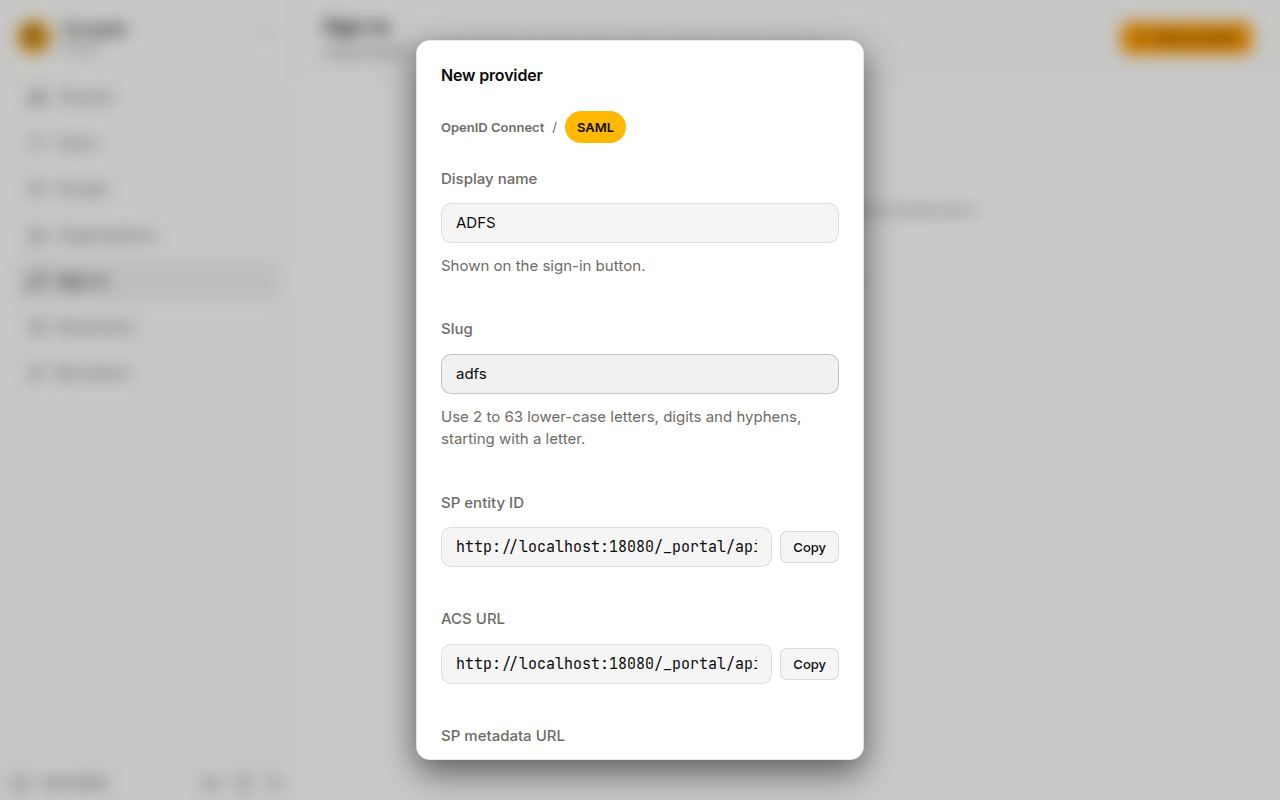
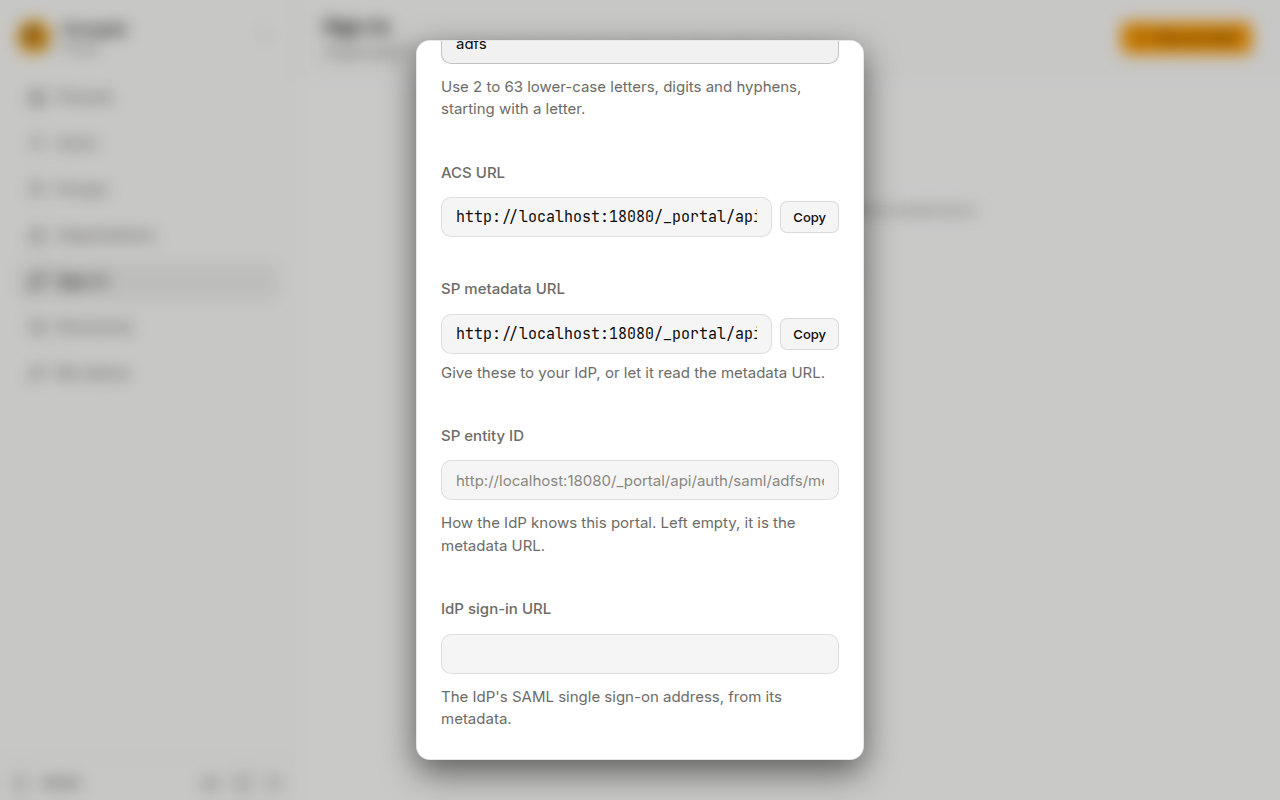
docs(portal): SP entity ID, unsaved mappings, skipped syncs, role sources and SCIM re-creation

diff --git a/src/content/docs/portal/console/sign-in-providers.md b/src/content/docs/portal/console/sign-in-providers.md
@@ -26,22 +26,23 @@ The service asks you for the portal's **callback URL**. The console shows it whi
 7. **On**: untick it to keep the provider ready but hidden from the sign-in page.
 8. Press **Add provider**.
 
-People are matched by email: someone whose organisation email is already a user of the portal signs in as that user.
+People are matched by email: someone whose organisation email is already a user of the portal signs in as that user. This needs the provider to say the email is verified; when it does not, the person can still sign in, but only to an account the provider made or linked before, and no account is made for them.
 
 ## Add a SAML provider
 
 1. Press **New provider** and choose **SAML**.
 2. **Display name** and **Slug**, as for OpenID Connect.
-3. The console now shows the portal's **SP entity ID**, **ACS URL** and **SP metadata URL**. Register the portal with your IdP using these, or give it the metadata URL.
-4. You can save it now, with **On** unticked, and come back with the IdP's details.
-5. **IdP sign-in URL** and **IdP signing certificate**: from the IdP's metadata. During a certificate change, paste both certificates.
-6. **IdP entity ID**: the IdP's issuer, so only it is accepted.
-7. **Email attribute**, **Name attribute** and **Groups attribute**: the names of the attributes your IdP sends. Leave the email empty to use the email the IdP names, or the NameID.
-8. **ID attribute**: leave it empty to use the NameID. If your IdP sends a temporary (transient) NameID, set an attribute that stays the same.
-9. **Trust the IdP's email**: only then can a sign-in link an existing user by email.
-10. Tick **On** and press **Save**.
+3. The console now shows the portal's **ACS URL** and **SP metadata URL**. Register the portal with your IdP using these, or give it the metadata URL.
+4. **SP entity ID**: how the IdP knows the portal. Leave it empty to use the metadata URL; enter another only if your IdP expects one.
+5. You can save it now, with **On** unticked, and come back with the IdP's details.
+6. **IdP sign-in URL** and **IdP signing certificate**: from the IdP's metadata. During a certificate change, paste both certificates.
+7. **IdP entity ID**: the IdP's issuer, so only it is accepted.
+8. **Email attribute**, **Name attribute** and **Groups attribute**: the names of the attributes your IdP sends. Leave the email empty to use the email the IdP names, or the NameID.
+9. **ID attribute**: leave it empty to use the NameID. If your IdP sends a temporary (transient) NameID, set an attribute that stays the same.
+10. **Trust the IdP's email**: only then can a sign-in link an existing user by email.
+11. Tick **On** and press **Save**.
 
-![A new SAML provider: the portal's SP entity ID, ACS URL and metadata URL to give to the IdP.](../../../../assets/screenshots/portal-provider-saml.png)
+![A new SAML provider: the portal's ACS URL and metadata URL to give to the IdP, and its SP entity ID, empty to use the metadata URL.](../../../../assets/screenshots/portal-provider-saml.png)
 
 Sign-in always starts on the portal: a link on the IdP's own portal page that sends people straight here does not sign them in.
 

diff --git a/src/content/docs/portal/console/group-mappings.md b/src/content/docs/portal/console/group-mappings.md
@@ -10,7 +10,9 @@ Mappings are kept per directory and per sign-in provider, at the bottom of its w
 1. Press **Add mapping**.
 2. Type the outside group: for a directory, the group's DN; for a provider, the group's name or ID as the provider sends it.
 3. Choose the portal group or role it gives.
-4. Press **Save mappings**.
+4. Press **Save mappings**. A row with only one of its two halves filled in is refused: complete it or remove it.
+
+While a directory's mappings are unsaved, **Test connection** and **Sync now** wait. Closing the window with unsaved mappings asks before discarding them.
 
 Upper and lower case do not matter, nor do spaces after the commas of a DN.
 
@@ -23,6 +25,6 @@ Each time, the person gets exactly the groups and roles the mappings give them, 
 
 ## Mapped and hand-given access
 
-Groups and roles an administrator gives by hand are never touched by mappings. On a user's page, the **Roles** card shows the roles given by hand as tick boxes, and lists below them the ones a directory or provider gives. A group's **Members** card shows members a directory gave as **From** the directory; only the directory can take them away.
+Groups and roles an administrator gives by hand are never touched by mappings. On a user's page, the **Roles** card shows the roles given by hand as tick boxes, and lists below them each role a directory or provider gives, with that source's name. A group's **Members** card shows members a directory gave as **From** the directory; only the directory can take them away. Someone given both by hand and by a directory is listed once, with **From** the directory.
 
 The portal always keeps one active administrator: a mapping never takes the role from the last one.

diff --git a/src/content/docs/portal/console/directories.md b/src/content/docs/portal/console/directories.md
@@ -32,7 +32,7 @@ Open the directory and press **Test connection**. The console says how many peop
 
 ![A directory open in the console: Test connection says it finds 3 users, and its group mappings are below.](../../../../assets/screenshots/portal-directory-test-mappings.png)
 
-Press **Sync now** to bring everyone the filter finds into the portal: new people are added, names and emails are brought up to date, and people the directory no longer has are disabled. People without an email in the directory are skipped. A sync that finds nobody changes nothing. If a sync would disable more than half of the directory's people, the console asks first: check the directory's settings, then press **Sync anyway** if they are right.
+Press **Sync now** to bring everyone the filter finds into the portal: new people are added, names and emails are brought up to date, and people the directory no longer has are disabled. People without an email in the directory are skipped, and the console says how many it skipped and why. A sync that finds nobody changes nothing. If a sync would disable more than half of the directory's people, the console asks first: check the directory's settings, then press **Sync anyway** if they are right.
 
 A person an administrator disabled stays disabled, whatever the directory says.
 

diff --git a/src/content/docs/portal/console/scim.md b/src/content/docs/portal/console/scim.md
@@ -15,8 +15,9 @@ With SCIM, your identity system keeps the portal's people and groups up to date 
 ## What SCIM does here
 
 - A person the identity system creates gets an account with their email. If someone already has that email in the portal, SCIM takes over their account, except an administrator's.
-- Turning a person off, or deleting them, in the identity system disables them in the portal. Their account stays.
-- Groups the identity system pushes appear in **Groups**; only SCIM changes their members and names.
+- Turning a person off, or deleting them, in the identity system disables them in the portal. Their account stays. If the identity system creates them again, they get the same account back.
+- People are found by the user name the identity system sends, even when it is not an email.
+- Groups the identity system pushes appear in **Groups**; only SCIM changes their members and names. A pushed group with the name of a group you made by hand takes that group over.
 - A person from SCIM has their name and email managed by the identity system. They sign in with a sign-in provider, often the same system through [SAML or OpenID Connect](/portal/console/sign-in-providers/).
 
 Revoke a token with **Revoke** in the card. The system that uses it can no longer provision anyone.

diff --git a/src/content/docs/portal/console/users.md b/src/content/docs/portal/console/users.md
@@ -56,7 +56,7 @@ A user who comes from a [directory](/portal/console/directories/) or from [SCIM]
 
 - **Details** says **Managed by** the directory or system: their name and fields come from there, and are changed there.
 - A directory user has no **Password** card: they use their directory password.
-- **Roles** shows the roles given by hand as tick boxes, and lists below them the roles a directory or provider gives through [group mappings](/portal/console/group-mappings/).
+- **Roles** shows the roles given by hand as tick boxes, and lists below them each role a directory or provider gives through [group mappings](/portal/console/group-mappings/), with that source's name.
 
 ![A user from the Corp AD directory: managed details, roles, and the linked account.](../../../../assets/screenshots/portal-user-managed.png)
 
